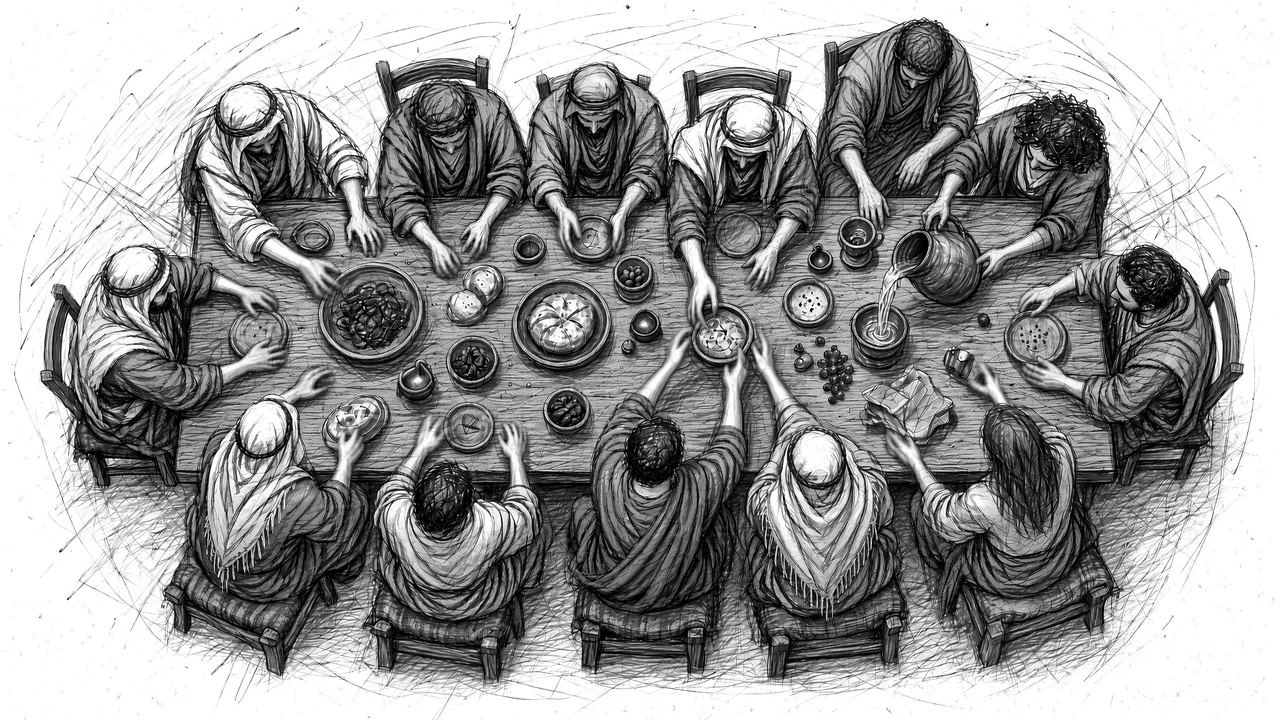
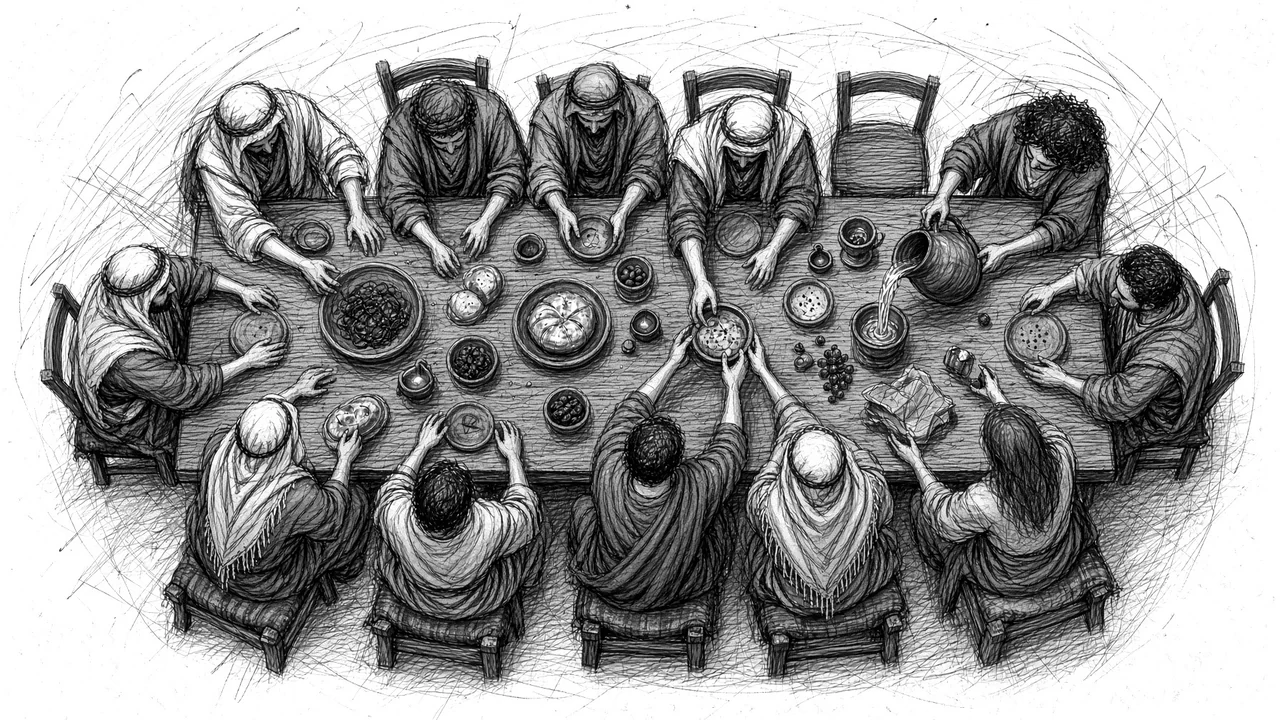
ART-202-03: reverse shared-table sequence (empty chair first)

Changed region(s): [[0.0312, 0.0306, 0.9688, 0.9778]]

diff --git a/discipleship/scripts/lesson-image-assets.js b/discipleship/scripts/lesson-image-assets.js
@@ -363,7 +363,7 @@
     "images/202-03-shared-table-seq-1.jpg": {
         "width": 1792,
         "height": 1008,
[2 lines of base64/hex data omitted]
         "variants": [
             {
                 "src": "images/optimized/202-03-shared-table-seq-1-640.webp",
@@ -393,7 +393,7 @@
     "images/202-03-shared-table-seq-3.jpg": {
         "width": 1792,
         "height": 1008,
[2 lines of base64/hex data omitted]
         "variants": [
             {
                 "src": "images/optimized/202-03-shared-table-seq-3-640.webp",

diff --git a/discipleship/story-image.md b/discipleship/story-image.md
@@ -194,7 +194,7 @@ Optional `imageDissolveOnEntry: true` on a two-layer image starts at 100% B&W wh
 | 201-10 | Coming to His Senses | B&W -> Color | `prodigal-son-two-brothers-bw.jpg` -> `prodigal-son-two-brothers-color.jpg` | Live (`touchNext: true`) |
 | 202-01 | The Good Samaritan | **7-Stop Sequence** | `202-01-good-samaritan-seq-1.jpg` .. `4.jpg` (stops `[0, 0.08, 0.16, 0.24, 0.32, 0.40, 0.64]`; `good-samaritan-story.jpg` kept unused) | Live (`touchNext: true`) |
 | 202-02 | The Wise and Foolish Builders | **7-Stop Sequence** | `house-rock-seq-1.jpg` .. `5.jpg` (stops `[0, 0.08, 0.18, 0.28, 0.38, 0.48, 0.6]`; seq-1 and seq-2 listed twice) | Live sequence (`touchNext: true`) |
-| 202-03 | The Early Church | **3-Frame Sequence** | `202-03-shared-table-seq-1.jpg` .. `3.jpg` (stops `[0, 0.3, 0.6]`; `early-church-seq-1.jpg` .. `4.jpg` kept unused) | Live (`touchNext: true`) |
+| 202-03 | The Early Church | **3-Frame Sequence** | `202-03-shared-table-seq-1.jpg` .. `3.jpg` (empty chair first, full table last; stops `[0, 0.3, 0.6]`; `early-church-seq-1.jpg` .. `4.jpg` kept unused) | Live (`touchNext: true`) |
 | 202-04 | The Five Farmers in the Field | B&W -> Color | `Farmer-bw.jpeg` -> `Farmer-color.jpg` | Live (`touchNext: true`) |
 | 202-05 | The Pit, the Prison, and the Palace | B&W -> Color | `202-05-joseph-pit-palace-bw.jpg` -> `202-05-joseph-pit-palace-color.jpg` | Live (`touchNext: true`) |
 | 202-06 | A Face That Shone | **3-Stop Sequence** | `202-06-moses-veil-seq-1.jpg` (listed twice), `202-06-moses-veil-seq-2.jpg` (stops `[0, 0.2, 0.3]`). Paul/Silas files kept unused. | Live before the story card (`touchNext: true`) |

diff --git a/discipleship/project-management/logs/2026-11-20-ART-202-03-TABLE-REVERSE-discipleshipbot.md b/discipleship/project-management/logs/2026-11-20-ART-202-03-TABLE-REVERSE-discipleshipbot.md
@@ -1,0 +1,7 @@
+# ART-202-03-TABLE-REVERSE
+
+Date: 2026-11-20. Agent: DiscipleshipBot.
+
+Dave said the 202-03 shared-table sequence from PR #359 played backwards. Swapped the source files and delivery copies so seq-1 is now the empty-chair frame and seq-3 is the full table. Stops stay [0, 0.3, 0.6]. Alt text updated to match the new order. Reran build_lesson_images.js (assets regenerated, not hand-edited). No lesson wording, Scripture, or question IDs changed.
+
+Checks: check_lesson_assets.js PASS (144 references resolve). l202_03_story_image_browser_check.js: 85 checks passed.
